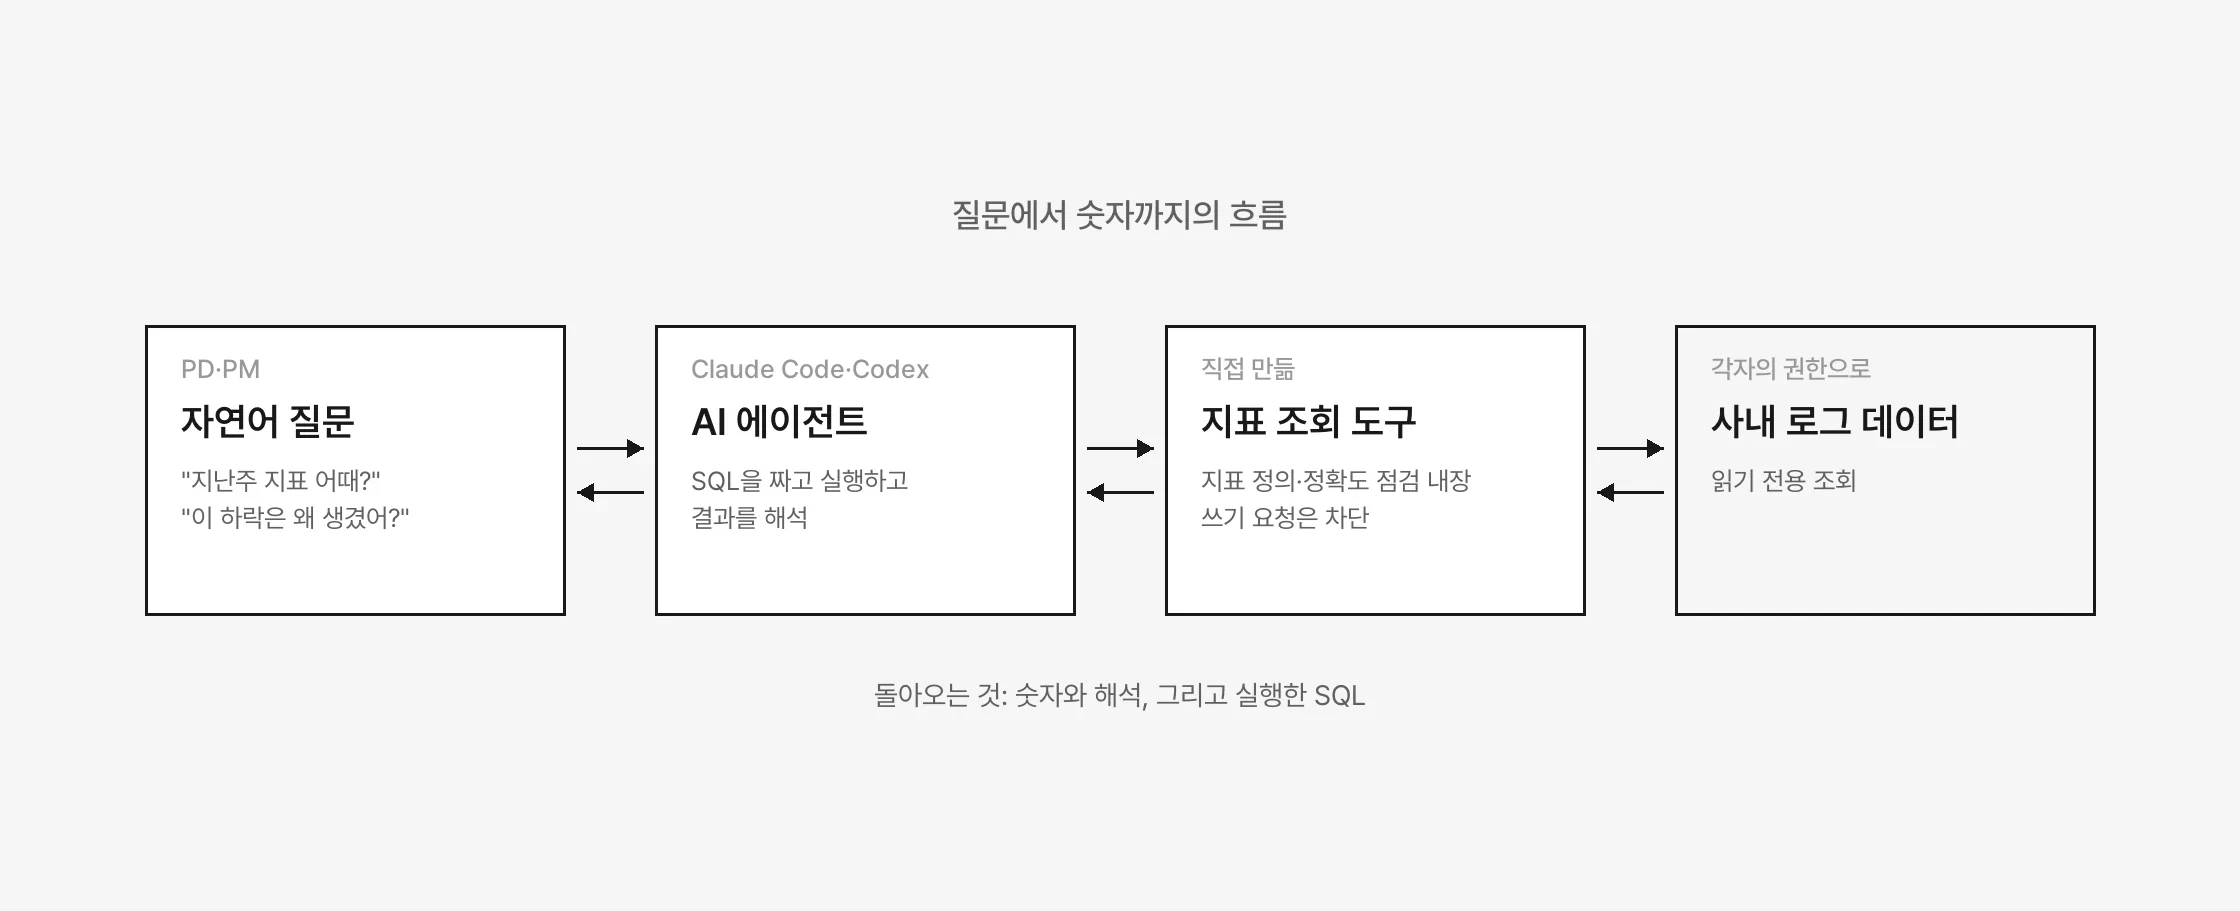
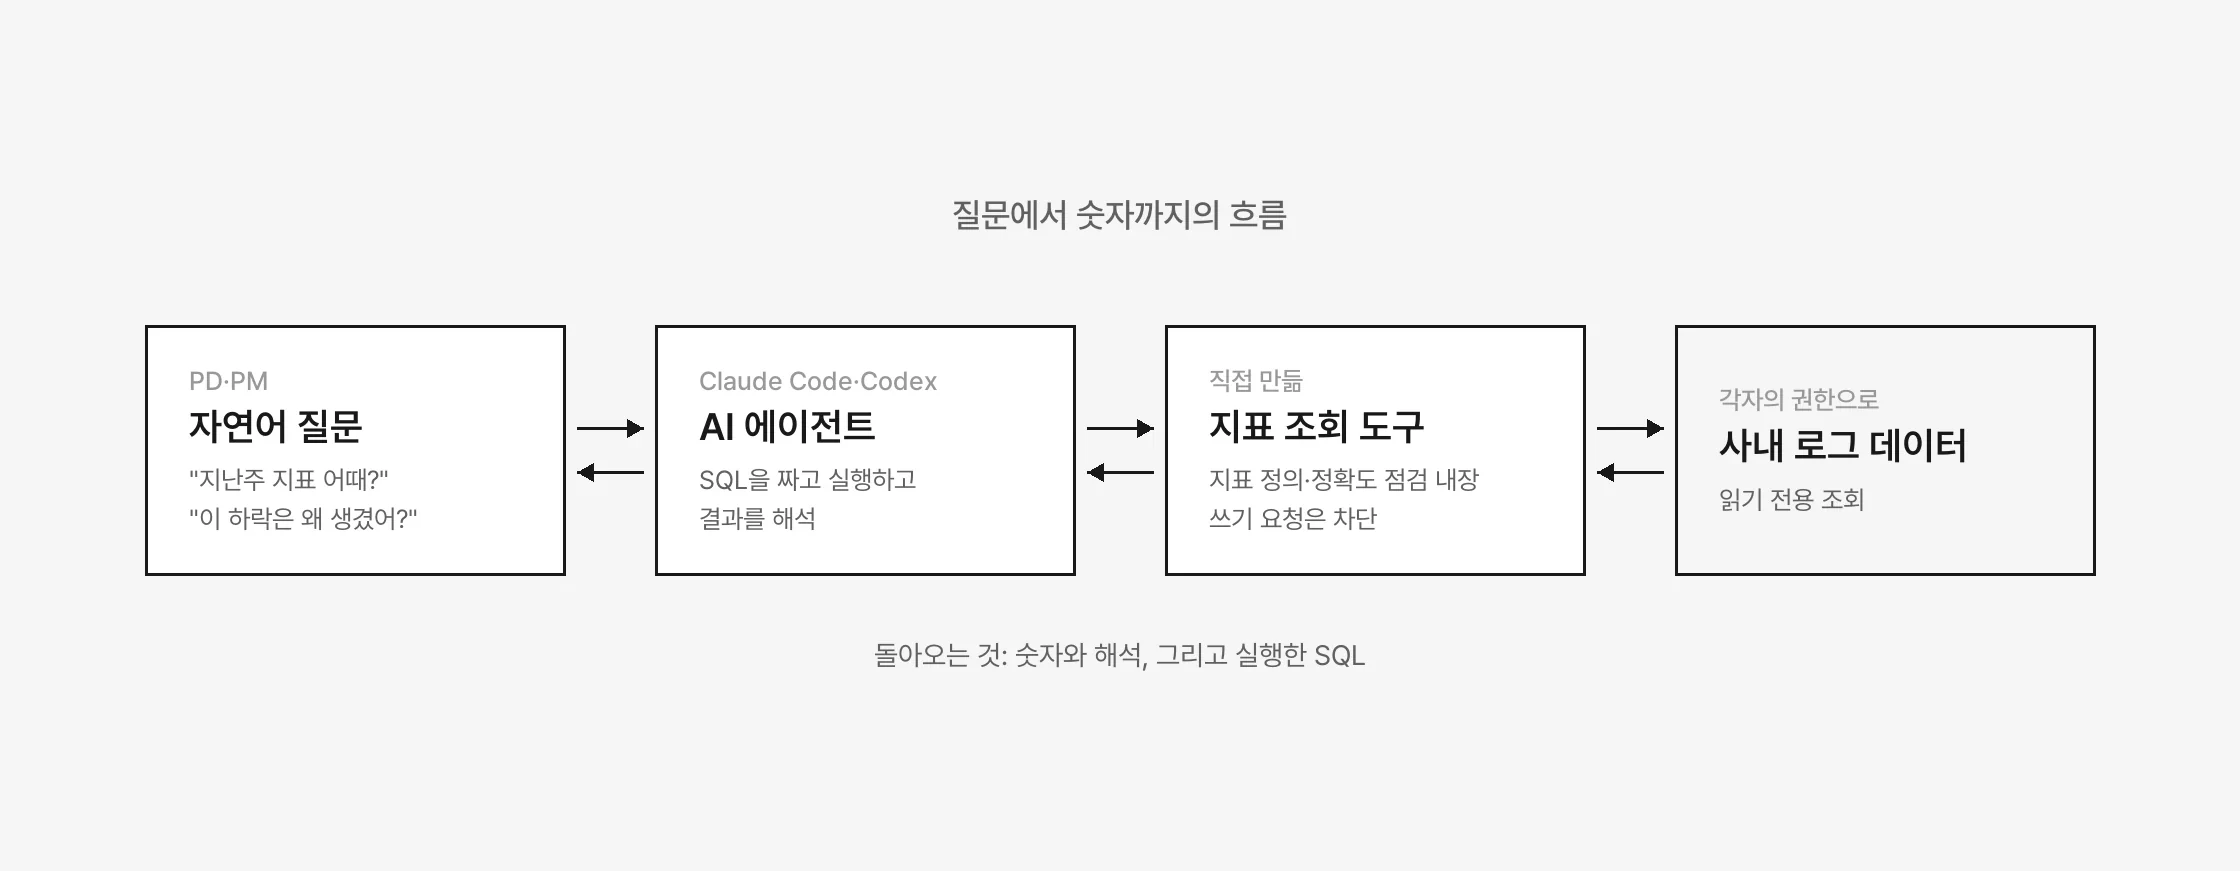
박스 도식의 글 묶음을 위아래 가운데로, 여백 고르게
데이터 도구 흐름·계층, 트렌드림 하루·큐레이션 도식

diff --git a/trendream.html b/trendream.html
@@ -48,7 +48,7 @@
 
     <section class="cs-block">
       <figure class="cs-fig">
-        <picture><source media="(max-width:820px)" srcset="img/trendream/cycle-m.webp?v=202611171500" width="1000" height="1549"><img src="img/trendream/cycle.webp?v=202611171500" width="2240" height="908" alt="트렌드림의 하루. 전날 22시 AI가 수집·선정·요약을 하고, 밤사이와 출근길에 사람이 모바일 앱으로 검수하고, 8시 50분 메신저로 아침 브리핑이 오고, 10시에 사내 그룹에 자동 발행된다. 발행 직전 정합성 검사에서 어긋나면 멈추고 알린다" loading="lazy"></picture>
+        <picture><source media="(max-width:820px)" srcset="img/trendream/cycle-m.webp?v=202611172130" width="1000" height="1497"><img src="img/trendream/cycle.webp?v=202611172130" width="2240" height="868" alt="트렌드림의 하루. 전날 22시 AI가 수집·선정·요약을 하고, 밤사이와 출근길에 사람이 모바일 앱으로 검수하고, 8시 50분 메신저로 아침 브리핑이 오고, 10시에 사내 그룹에 자동 발행된다. 발행 직전 정합성 검사에서 어긋나면 멈추고 알린다" loading="lazy"></picture>
       </figure>
       <div class="cs-sec cs-col">
         <p class="cs-label">해결 방향</p>
@@ -61,7 +61,7 @@
 
     <section class="cs-block">
       <figure class="cs-fig">
-        <picture><source media="(max-width:820px)" srcset="img/trendream/curation-m.webp?v=202611171500" width="1000" height="1457"><img src="img/trendream/curation.webp?v=202611171500" width="2240" height="816" alt="기사를 고르고 정리하는 방식. 웹 리서치·RSS 15곳 이상·사이트 스캔으로 후보를 찾고, 최근 넣은 기사 30개와 뺀 기사 40개를 기준점으로 AI가 고르고, 디자인 기사 2개 보장과 1~5번 뉴스·6~8번 읽을거리 규칙으로 8개와 예비 3개를 구성하고, 본문을 읽고 3줄로 요약한다" loading="lazy"></picture>
+        <picture><source media="(max-width:820px)" srcset="img/trendream/curation-m.webp?v=202611172130" width="1000" height="1405"><img src="img/trendream/curation.webp?v=202611172130" width="2240" height="776" alt="기사를 고르고 정리하는 방식. 웹 리서치·RSS 15곳 이상·사이트 스캔으로 후보를 찾고, 최근 넣은 기사 30개와 뺀 기사 40개를 기준점으로 AI가 고르고, 디자인 기사 2개 보장과 1~5번 뉴스·6~8번 읽을거리 규칙으로 8개와 예비 3개를 구성하고, 본문을 읽고 3줄로 요약한다" loading="lazy"></picture>
       </figure>
       <div class="cs-sec cs-col">
         <p class="cs-label">큐레이션 설계</p>

diff --git a/data-tools.html b/data-tools.html
@@ -47,7 +47,7 @@
 
     <section class="cs-block">
       <figure class="cs-fig">
-        <picture><source media="(max-width:820px)" srcset="img/datatools/flow-m.webp?v=202611171500" width="1000" height="1573"><img src="img/datatools/flow.webp?v=202611171500" width="2240" height="911" alt="질문에서 숫자까지의 흐름. PD·PM의 자연어 질문을 AI 에이전트가 받아 직접 만든 지표 조회 도구를 거쳐 각자의 권한으로 사내 로그 데이터를 읽기 전용 조회하고, 숫자와 해석, 실행한 SQL이 돌아온다" loading="lazy"></picture>
+        <picture><source media="(max-width:820px)" srcset="img/datatools/flow-m.webp?v=202611172130" width="1000" height="1521"><img src="img/datatools/flow.webp?v=202611172130" width="2240" height="871" alt="질문에서 숫자까지의 흐름. PD·PM의 자연어 질문을 AI 에이전트가 받아 직접 만든 지표 조회 도구를 거쳐 각자의 권한으로 사내 로그 데이터를 읽기 전용 조회하고, 숫자와 해석, 실행한 SQL이 돌아온다" loading="lazy"></picture>
       </figure>
       <div class="cs-sec cs-col">
         <p class="cs-label">해결 방향</p>
@@ -86,7 +86,7 @@
 
     <section class="cs-block">
       <figure class="cs-fig">
-        <picture><source media="(max-width:820px)" srcset="img/datatools/layers-m.webp?v=202611171500" width="1000" height="1327"><img src="img/datatools/layers.webp?v=202611171500" width="2240" height="1096" alt="지식을 두 층으로 나눈 구조. 위의 공통 계층은 코드가 가지는 정확도를 지키는 방법이고, 아래의 부서 계층은 더보기탭, 톡 설정, 다른 팀의 설정 파일로 갈아 끼운다" loading="lazy"></picture>
+        <picture><source media="(max-width:820px)" srcset="img/datatools/layers-m.webp?v=202611172130" width="1000" height="1370"><img src="img/datatools/layers.webp?v=202611172130" width="2240" height="1058" alt="지식을 두 층으로 나눈 구조. 위의 공통 계층은 코드가 가지는 정확도를 지키는 방법이고, 아래의 부서 계층은 더보기탭, 톡 설정, 다른 팀의 설정 파일로 갈아 끼운다" loading="lazy"></picture>
       </figure>
       <div class="cs-sec cs-col">
         <p class="cs-label">확장</p>
